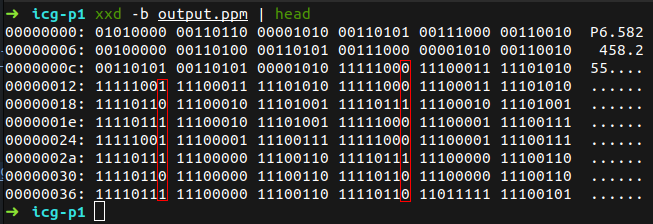
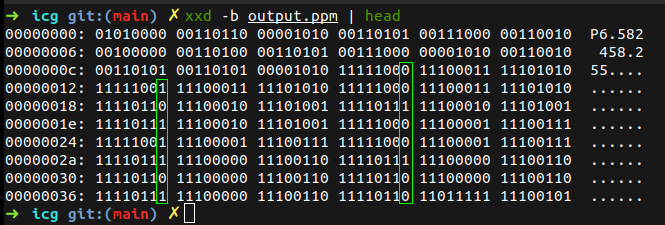
v2

diff --git a/ocultar.c b/ocultar.c
@@ -1,35 +1,8 @@
-// compilar: gcc ocultar.c -o ocultar -lm
+// compilar: gcc ocultar.c -o ocultar
 // executar: ./ocultar input.ppm
 #include <stdio.h>
 #include <stdlib.h>
-#include <math.h>
 #include <string.h>
-
-void charToBinary(char c, int *binary)
-{
-  int ascii_value = (int)c;
-
-  for (int i = 7; i >= 0; i--)
-  {
-    binary[i] = ascii_value % 2;
-    ascii_value /= 2;
-  }
-}
-
-void stringToBinary(const char *message, int *binaryArray)
-{
-  int len = strlen(message);
-  int binary[8];
-
-  for (int i = 0; i < len; i++)
-  {
-    charToBinary(message[i], binary);
-    for (int j = 0; j < 8; j++)
-    {
-      binaryArray[i * 8 + j] = binary[j];
-    }
-  }
-}
 
 void main(int argc, char **argv)
 {
@@ -82,39 +55,31 @@ void main(int argc, char **argv)
   }
 
   char *message = "Mensagem super super super super super secreta\\";
-  int binaryArrayLength = 8 * strlen(message);
-  int binaryArray[binaryArrayLength];
+  int messageLength = strlen(message);
 
-  stringToBinary(message, binaryArray);
-
-  printf("binaryArray: ");
-  for (int i = 0; i < binaryArrayLength; i++)
+  int x = 0, y = 0;
+  for (int c = 0; c < messageLength; c++)
   {
-    printf("%d", binaryArray[i]);
-  }
-  printf("\nbinaryArrayLength: %d", binaryArrayLength);
-  printf("\n");
-
-  int len = 0;
-  for (j = 0; j < h; j++)
-  {
-    for (i = 0; i < l; i++)
+    for (int b = 7; b >= 0; b--)
     {
-      if (len >= binaryArrayLength)
-        goto exitLoops;
+      char bit = (message[c] >> b) & 1;
+      imagem[x][y][0] = (imagem[x][y][0] & 0xFE) | bit;
 
-      if (binaryArray[len])
+      if (x == (l - 1))
       {
-        imagem[i][j][0] = imagem[i][j][0] | 0b00000001;
+        x = 0;
+        y += 1;
       }
       else
       {
-        imagem[i][j][0] = imagem[i][j][0] & 0b11111110;
+        x += 1;
       }
-      len++;
     }
   }
-exitLoops:
+
+  printf("Mensagem ocultada!\n");
+  printf("Total de caracteres: %d\n", messageLength);
+  printf("Total de bits: %d\n", messageLength * 8);
 
   fp = fopen("output.ppm", "w");
   fprintf(fp, "P6\n");

diff --git a/revelar.c b/revelar.c
@@ -1,25 +1,7 @@
-// compilar: gcc revelar.c -o revelar -lm
+// compilar: gcc revelar.c -o revelar
 // executar: ./revelar output.ppm
 #include <stdio.h>
 #include <stdlib.h>
-#include <math.h>
-#include <string.h>
-
-void binaryToString(const int *binaryArray, char *resultString, int arrayLength)
-{
-  int len = arrayLength / 8;
-
-  for (int i = 0; i < len; i++)
-  {
-    int decimalValue = 0;
-    for (int j = 0; j < 8; j++)
-    {
-      decimalValue = decimalValue * 2 + binaryArray[i * 8 + j];
-    }
-    resultString[i] = (char)decimalValue;
-  }
-  resultString[len] = '\0';
-}
 
 void main(int argc, char **argv)
 {
@@ -71,36 +53,37 @@ void main(int argc, char **argv)
     exit(0);
   }
 
-  int array[1120];
-  unsigned char charBreak = 0;
-  int len = 0;
+  char msg[1120];
+  char aux = 0;
+  int k = 0;
   for (j = 0; j < h; j++)
   {
     for (i = 0; i < l; i++)
     {
-      int lsb = imagem[i][j][0] & 0b00000001;
-      array[len] = lsb;
+      char lsb = imagem[i][j][0] & 1;
+      aux <<= 1;
+      aux |= lsb;
 
-      charBreak = charBreak << 1;
-      if (lsb)
+      if ((k + 1) % 8 == 0)
       {
-        charBreak = charBreak | 0b00000001;
+        if (aux == 0b01011100)
+        {
+          goto exitLoops;
+        }
+        msg[(k + 1) / 8] = aux;
+        aux = 0;
       }
-      if ((charBreak == 0b01011100) && ((len + 1) % 8 == 0))
-      {
-        goto exitLoops;
-      }
-      len++;
+      k++;
     }
   }
 exitLoops:
 
-  printf("charBreak: %d\n", charBreak);
-  printf("u: %d\n", len);
-
-  char resultString[len - 7];
-  binaryToString(array, resultString, len - 7);
-  printf("Mensagem original: %s\n", resultString);
+  printf("Mensagem revelada: ");
+  for (int i = 0; i < (k + 1) / 8; i++)
+  {
+    printf("%c", msg[i]);
+  }
+  printf("\n");
 
   for (i = 0; i < l; i++)
     free(imagem[i]);

diff --git a/README.md b/README.md
@@ -3,36 +3,32 @@
 Este projeto visa implementar uma técnica de esteganografia em imagens PPM (Portable Pixmap). Foi desenvolvido como parte do curso no Departamento de Matemática da Universidade Federal de Sergipe, sob a supervisão do Prof. Evilson Vieira.
 <br><br/>
 A esteganografia consiste em ocultar informações dentro de dados aparentemente normais, tornando a presença da informação oculta imperceptível.
-
+<br><br/>
+A tecnica utilizada neste projeto consiste em ocultar a mensagem dentro dos bits menos significativos de cada componente (R) da imagem. Os bits menos significativos são aqueles que menos interferem no valor do componente, portanto, a alteração desses bits não é perceptível ao olho humano.
 ## Ocultar Mensagem
 
 ### Compilar e Executar
 
 ```bash
-gcc ocultar.c -o ocultar -lm
+gcc ocultar.c -o ocultar
 ./ocultar input.ppm
 ```
-
-**Descrição:**
-1. O programa lê uma imagem PPM do arquivo de entrada (`input.ppm`).
-2. Converte a mensagem de texto em array de bits.
-3. Oculta o array de bits nos bits menos significativos (LSBs) de cada componente vermelho (R) na imagem.
-4. Salva a imagem modificada no arquivo de saída (`output.ppm`).
+- O programa lê uma imagem PPM `input.ppm`.
+- Converte a mensagem em bits e os insere nos bits menos significativos da componente de cor vermelha (R) da imagem.
+- Gera uma nova imagem com a mensagem oculta chamada `output.ppm`.
 
 ## Revelar Mensagem
 
 ### Compilar e Executar
 
 ```bash
-gcc revelar.c -o revelar -lm
+gcc revelar.c -o revelar
 ./revelar output.ppm
 ```
-
-**Descrição:**
-1. O programa lê a imagem PPM modificada do arquivo de saída (`output.ppm`).
-2. Recupera os bits menos significativos (LSBs) dos componentes vermelho (R) e converte-os em um array de bits.
-3. Converte os bits recuperados de volta para texto.
-4. Imprime a mensagem original.
+- O programa lê a imagem gerada pelo `ocultar`.
+- Extrai os bits menos significativos da componente de cor vermelha (R) para revelar a mensagem.
+- O fim da mensagem é identificado pelo padrão binário `01011100`.
+- Imprime a mensagem revelada no console.
 
 ## Lógica Geral
 
@@ -42,19 +38,28 @@ gcc revelar.c -o revelar -lm
 
 ## Resultados no console
 
-### Observando o arquivo output.ppm com xxd
+### 1. Observando o arquivo `input.ppm` com xxd
 
 <div>
-    <img src="./imagens-png/xxd-output.png">
+    <img src="./imagens-png/xxd-input.png">
 </div>
 
-
-### Executando os programas
+### 2. Executando os programas
 
 <div>
     <img src="./imagens-png/exe-console.png">
 </div>
 
+### 3. Observando o arquivo `output.ppm`` com xxd
+
+<div>
+    <img src="./imagens-png/xxd-output.png">
+</div>
+
 ## Autor
 
 - Mateus Figueiredo Pereira
+
+## Observações
+
+- A mensagem de exemplo no programa `ocultar.c` pode ser modificada, mas é importante manter o comprimento máximo do programa `revelar.c`.
